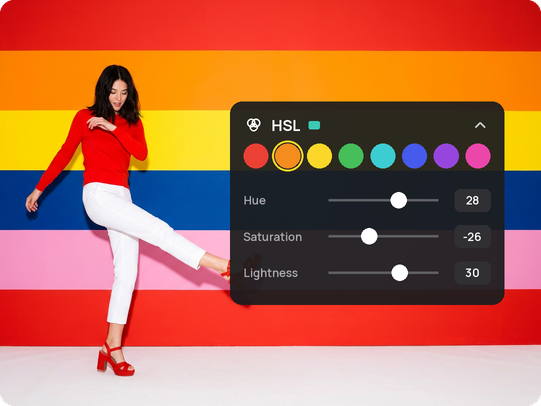
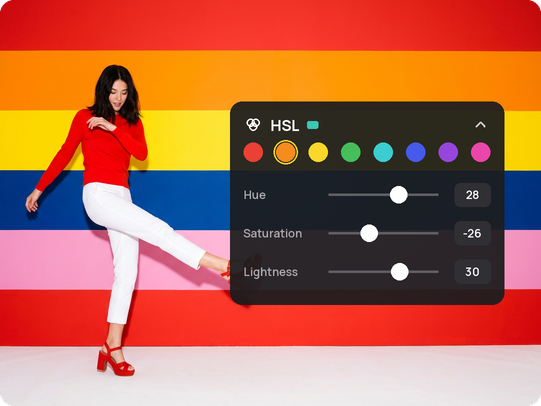
panel-overlay: self-sizing adjust panel; hair-color-changer check (trial-5)
runs/trial-5 (gitignored) applied the family to a `tool`-family page: the
card treatment transfers, but hair-color-changer's own cards carry no panel
and its hero is a sticker collage, so the Use line and prd.md now say to
take the photography and ground from the family and add the panel only when
the page's own cards show one.

- draw.adjust_panel sizes header, chip and slider rows from the panel width
  and grows the panel to fit its content; a short one-slider panel with a
  chip row no longer overflows (trial-4 T1 recomposed, same look)

Tests: 63 passed.

diff --git a/src/landing_page_gen/compose/draw.py b/src/landing_page_gen/compose/draw.py
@@ -240,13 +240,17 @@ def adjust_panel(canvas, rect, title, chips, active, sliders, fnt_title, fnt_lab
     active one ringed, then one row per slider (label, track, knob, value chip).
     `sliders` is a list of [label, value] with value in -100..100."""
     x0, y0, x1, y1 = (round(v) for v in rect)
-    w, h = x1 - x0, y1 - y0
+    w = x1 - x0
+    pad = w * 0.05
+    hh = w * 0.1  # header row; rows are sized from the width so the panel can grow to its content
+    dia = min((w - 2 * pad) / (chips * 1.25), w * 0.07) if chips else 0
+    need = 2 * pad + hh + (dia + pad if chips else 0) + len(sliders) * w * 0.085
+    y1 = max(y1, round(y0 + need))
+    h = y1 - y0
     layer = Image.new("RGBA", canvas.size, (0, 0, 0, 0))
     d = ImageDraw.Draw(layer)
     d.rounded_rectangle((x0, y0, x1, y1), radius=radius, fill=PANEL_FILL)
-    pad = w * 0.05
     # header
-    hh = h * 0.14
     mark = hh * 0.7
     icon(layer, (x0 + pad, y0 + pad, x0 + pad + mark, y0 + pad + mark), "wheel")
     tx = x0 + pad + mark * 1.4
@@ -259,7 +263,6 @@ def adjust_panel(canvas, rect, title, chips, active, sliders, fnt_title, fnt_lab
     # chips
     top = y0 + pad + hh
     if chips:
-        dia = min((w - 2 * pad) / (chips * 1.25), h * 0.17)
         step = (w - 2 * pad - dia) / max(1, chips - 1)
         for i in range(chips):
             cx = x0 + pad + i * step

diff --git a/.claude/skills/picsart-workflows/style-families.md b/.claude/skills/picsart-workflows/style-families.md
@@ -324,7 +324,7 @@ them `full-bleed` and lost the tool panel in every slot).
 **Examples:** c3cbf8c8 (ai-models--flux-3 S13-m1), c02d25a9 (ai-models--flux-3 S13-m2), 1794ea79 (ai-models--flux-3 S13-m3).
 
 ## panel-overlay
-**Use:** hero and use-case cards on adjustment-tool pages (HSL, colorize, change colour, curves, hair colour, filters, adjust): a stock lifestyle photo with the tool's dark control panel laid over it, so the picture shows the edit and the panel shows the control. The headline names a colour property (hue, saturation, lightness, tone, colour) or says adjust, tweak, fine-tune.
+**Use:** hero and use-case cards on adjustment-tool pages (HSL, colorize, change colour, curves, filters, adjust): a stock lifestyle photo with the tool's dark control panel laid over it, so the picture shows the edit and the panel shows the control. The headline names a colour property (hue, saturation, lightness, tone, colour) or says adjust, tweak, fine-tune. Not every colour tool carries the panel: hair-color-changer's cards are stock portraits on the tilted ground with no panel (`omit: [panel]`) and its hero is a sticker collage; check the page's own cards before assuming the panel (runs/trial-5).
 **Slots:** usecase-4:3 (n=…); the pooled 4:3 hero and 5:4 cards of the same pages (hsl-color S01-m1, hair-color-changer S02).
 **Signature:** ground=photo-full-bleed or white; layout=overlay; chrome=adjust-panel, chip, slider (cards) or pill, badge (hero); finish=photo; text=labels-only; subject=person (n=…).
 **Ground:** none (default: the photo fills the slot, the panel sits over its lower right, corners rounded) | white: the photo card and a plain card behind it tilted about 10 degrees on the page's white ground (hsl-color S03-m2 and S03-m4, hair-color-changer S02-m2 and S02-m4); `ground: tilted` in the compose spec.

diff --git a/prd.md b/prd.md
@@ -129,6 +129,11 @@ taught it.
 - Hooks are cwd-relative: a `cd` in a Bash call moves the shell for every
   later call, and the next preflight is not logged, so the credit guard has
   no quote. Use absolute paths, never `cd`. (runs/trial-4)
+- A family's chrome does not travel with its photography. hair-color-changer
+  shares panel-overlay's stock portraits and tilted-card ground but carries no
+  panel, and its hero is a sticker collage; brief the ground and the photo
+  from the family, and the chrome only when the page's own cards show it.
+  (runs/trial-5)
 
 ## Non-goals
 
